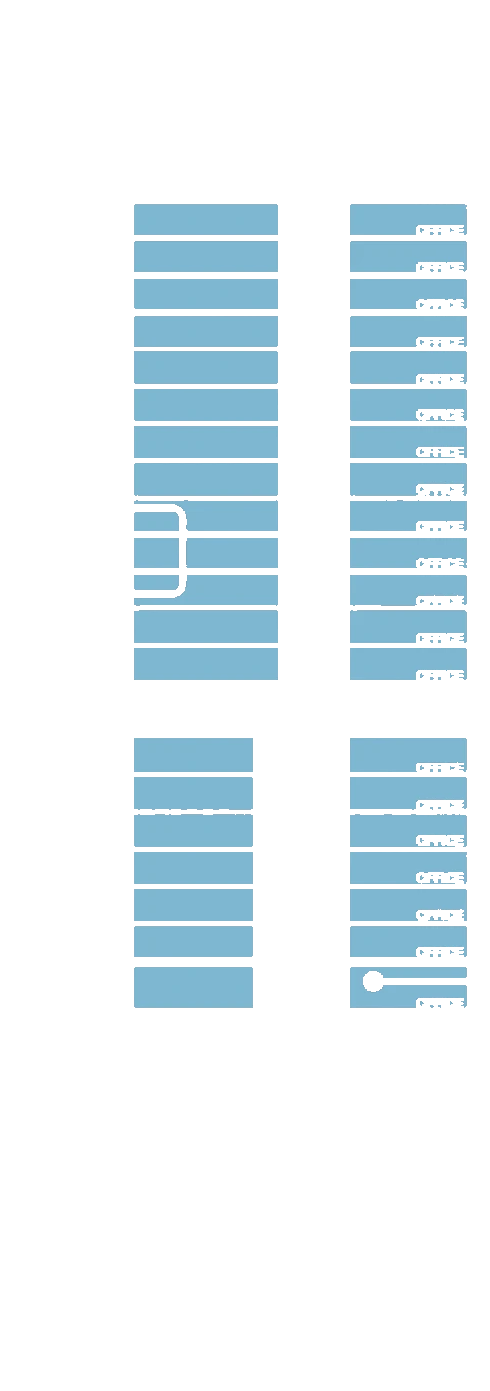
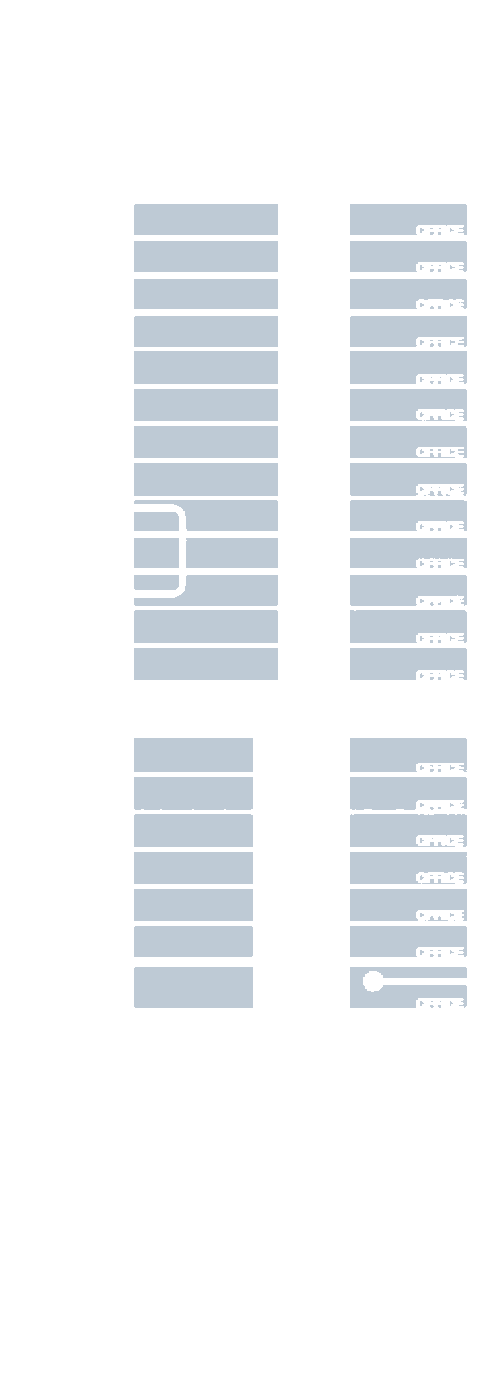
Recolour the Building Section in the deck palette
Office pale blue-grey, amenity and rooftop retail copper, parking grey,
mech taupe, matching the updated drawings; legend swatches follow.

Claude-Session: https://claude.ai/code/session_012Wbhs72foEXDBdrxWq3M81

diff --git a/src/content.js b/src/content.js
@@ -283,10 +283,10 @@ export const slides = [
     detail: { src: 'assets/diagrams/section-detail.jpg', alt: 'Typical office floor section, 13’3” to bottom of slab', box: [50, 428, 394, 484] },
     ring: [753, 606, 42, 44],
     zones: [
-      { key: 'office', label: 'Office', swatch: '#78b2ce', src: 'assets/diagrams/section-zone-office.png', box: [701,  345,  252,  715] },
-      { key: 'amenity', label: 'Amenity', swatch: '#f8c2a2', src: 'assets/diagrams/section-zone-amenity.png', box: [701,  345,  252,  715] },
-      { key: 'parking', label: 'Parking', swatch: '#aabaab', src: 'assets/diagrams/section-zone-parking.png', box: [701,  345,  252,  715] },
-      { key: 'mech', label: 'Mech', swatch: '#d2daca', src: 'assets/diagrams/section-zone-mech.png', box: [701,  345,  252,  715] },
+      { key: 'office', label: 'Office', swatch: '#becad5', src: 'assets/diagrams/section-zone-office.png', box: [701,  345,  252,  715] },
+      { key: 'amenity', label: 'Amenity', swatch: '#b77859', src: 'assets/diagrams/section-zone-amenity.png', box: [701,  345,  252,  715] },
+      { key: 'parking', label: 'Parking', swatch: '#8d9899', src: 'assets/diagrams/section-zone-parking.png', box: [701,  345,  252,  715] },
+      { key: 'mech', label: 'Mech', swatch: '#c4bab4', src: 'assets/diagrams/section-zone-mech.png', box: [701,  345,  252,  715] },
     ],
     callouts: [
       { text: 'Rooftop Lounge and Roof Deck', y: 434, x1: 945, x2: 1221, x: 1229 },
